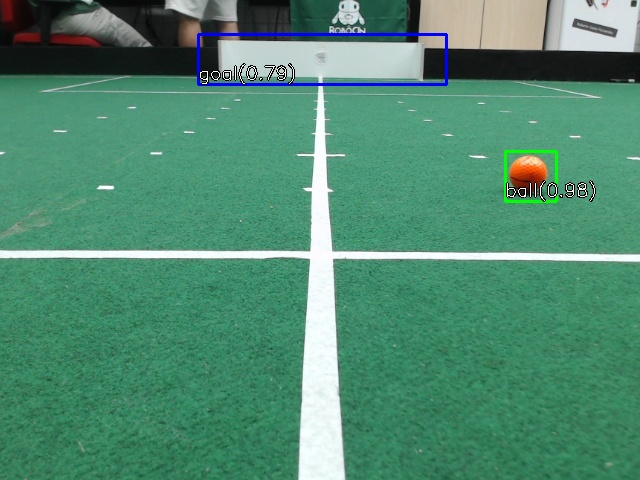
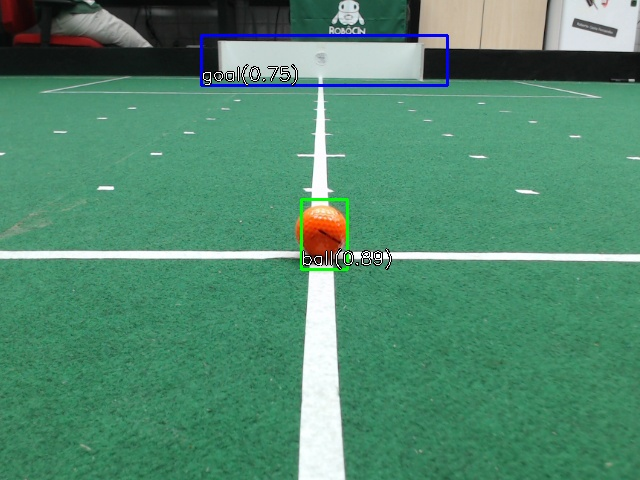
change img for paper

diff --git a/src/object_localization.py b/src/object_localization.py
@@ -217,7 +217,7 @@ if __name__=="__main__":
     cap.set(cv2.CAP_PROP_FRAME_HEIGHT, 480)
 
     # IMAGE READ SETUP
-    PATH_TO_IMG = cwd+"/experiments/13abr/4.jpg"
+    PATH_TO_IMG = cwd+"/experiments/13abr/1.jpg"
     img = cv2.imread(PATH_TO_IMG)
 
     # OBJECT DETECTION MODEL
@@ -287,8 +287,8 @@ if __name__=="__main__":
                 # BACK PROJECT BALL POSITION TO CAMERA 3D COORDINATES
                 object_position = ssl_cam.pixelToCameraCoordinates(x=pixel_x, y=pixel_y, z_world=0)
                 x, y, z = (position[0] for position in object_position)
-                caption = f"Position:{x:.2f},{y:.2f}"
-                myGUI.drawText(myGUI.screen, caption, (int(pixel_x-25), int(pixel_y+25)), 0.35)
+                #caption = f"Position:{x:.2f},{y:.2f}"
+                #myGUI.drawText(myGUI.screen, caption, (int(pixel_x-25), int(pixel_y+25)), 0.35)
 
         # DISPLAY WINDOW
         key = cv2.waitKey(10) & 0xFF
@@ -298,7 +298,7 @@ if __name__=="__main__":
         cv2.imshow(WINDOW_NAME, myGUI.screen)
         
         if key == ord('s'):
-            cv2.imwrite(cwd+"/experiments/13abr/position3d.jpg",myGUI.screen)
+            cv2.imwrite(cwd+"/experiments/13abr/point2d.jpg",myGUI.screen)
         if quit:
             break
         else: myGUI.updateGUI(img)

diff --git a/src/object_detection.py b/src/object_detection.py
@@ -206,7 +206,7 @@ if __name__ == "__main__":
     cap.set(cv2.CAP_PROP_FRAME_WIDTH, 640)
     cap.set(cv2.CAP_PROP_FRAME_HEIGHT, 480)
 
-    PATH_TO_IMG = r"/home/joao/ssl-detector/experiments/13abr/4.jpg"
+    PATH_TO_IMG = r"/home/joao/ssl-detector/experiments/13abr/1.jpg"
     im = cv2.imread(PATH_TO_IMG)
 
     trt_net = DetectNet(
